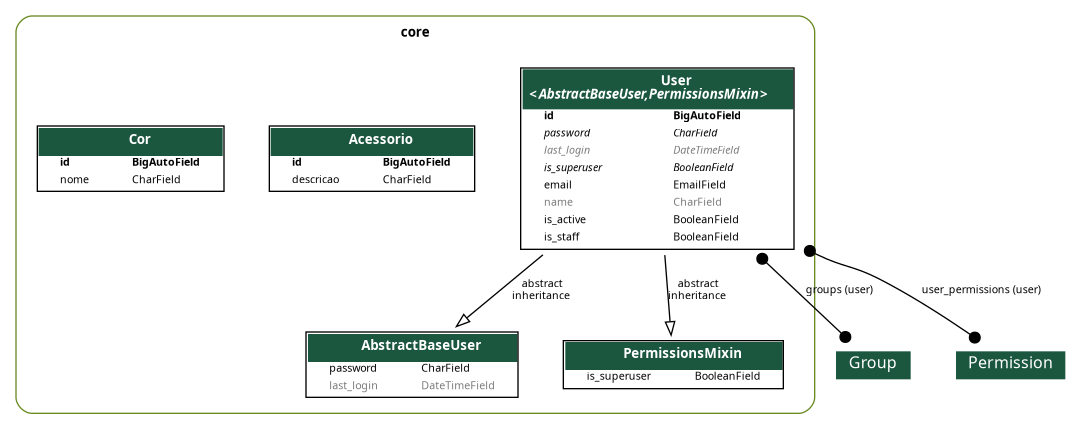
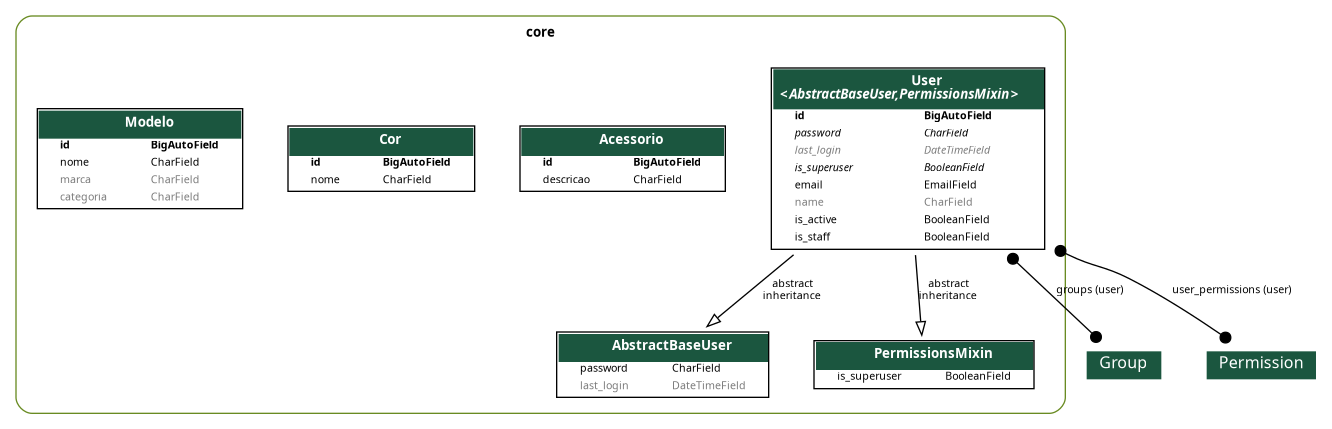
feat: criação da API Modelo

diff --git a/core/migrations/0008_modelo_alter_cor_options.py b/core/migrations/0008_modelo_alter_cor_options.py
@@ -1,0 +1,26 @@
+# Generated by Django 5.2.12 on 2026-03-24 12:27
+
+from django.db import migrations, models
+
+
+class Migration(migrations.Migration):
+
+    dependencies = [
+        ('core', '0007_cor'),
+    ]
+
+    operations = [
+        migrations.CreateModel(
+            name='Modelo',
+            fields=[
+                ('id', models.BigAutoField(auto_created=True, primary_key=True, serialize=False, verbose_name='ID')),
+                ('nome', models.CharField(max_length=80)),
+                ('marca', models.CharField(blank=True, max_length=80, null=True)),
+                ('categoria', models.CharField(blank=True, max_length=80, null=True)),
+            ],
+        ),
+        migrations.AlterModelOptions(
+            name='cor',
+            options={'verbose_name': 'cor', 'verbose_name_plural': 'cores'},
+        ),
+    ]

diff --git a/core/models/modelo.py b/core/models/modelo.py
@@ -1,0 +1,10 @@
+from django.db import models
+
+
+class Modelo(models.Model):
+    nome = models.CharField(max_length=80)
+    marca = models.CharField(max_length=80, blank=True, null=True)
+    categoria = models.CharField(max_length=80, blank=True, null=True)
+
+    def __str__(self):
+        return f'({self.id}) {self.nome.upper()} {self.marca.upper()}'

diff --git a/core/serializers/modelo.py b/core/serializers/modelo.py
@@ -1,0 +1,9 @@
+from rest_framework.serializers import ModelSerializer
+
+from core.models import Modelo
+
+
+class ModeloSerializer(ModelSerializer):
+    class Meta:
+        model = Modelo
+        fields = '__all__'

diff --git a/core/views/modelo.py b/core/views/modelo.py
@@ -1,0 +1,9 @@
+from rest_framework.viewsets import ModelViewSet
+
+from core.models import Modelo
+from core.serializers import ModeloSerializer
+
+
+class ModeloViewSet(ModelViewSet):
+    queryset = Modelo.objects.all()
+    serializer_class = ModeloSerializer

diff --git a/app/urls.py b/app/urls.py
@@ -12,13 +12,14 @@ from rest_framework_simplejwt.views import (
     TokenVerifyView,
 )
 
-from core.views import AcessorioViewSet, CorViewSet, UserRegistrationView, UserViewSet
+from core.views import AcessorioViewSet, CorViewSet, ModeloViewSet, UserRegistrationView, UserViewSet
 
 router = DefaultRouter()
 
 router.register(r'usuarios', UserViewSet, basename='usuarios')
 router.register(r'acessorios', AcessorioViewSet, basename='acessorios')
 router.register(r'cores', CorViewSet, basename='cores')
+router.register(r'modelos', ModeloViewSet, basename='modelos')
 
 urlpatterns = [
     path('admin/', admin.site.urls),

diff --git a/core/admin.py b/core/admin.py
@@ -54,3 +54,4 @@ class UserAdmin(BaseUserAdmin):
 admin.site.register(models.User, UserAdmin)
 admin.site.register(models.Acessorio)
 admin.site.register(models.Cor)
+admin.site.register(models.Modelo)

diff --git a/core/models/__init__.py b/core/models/__init__.py
@@ -1,3 +1,4 @@
 from .user import User
 from .acessorio import Acessorio
 from .cor import Cor
+from .modelo import Modelo

diff --git a/core/serializers/__init__.py b/core/serializers/__init__.py
@@ -1,3 +1,4 @@
 from .user import UserRegistrationSerializer, UserSerializer
 from .acessorio import AcessorioSerializer
 from .cor import CorSerializer
+from .modelo import ModeloSerializer

diff --git a/core/views/__init__.py b/core/views/__init__.py
@@ -1,3 +1,4 @@
 from .user import UserRegistrationView, UserViewSet
 from .acessorio import AcessorioViewSet
 from .cor import CorViewSet
+from .modelo import ModeloViewSet